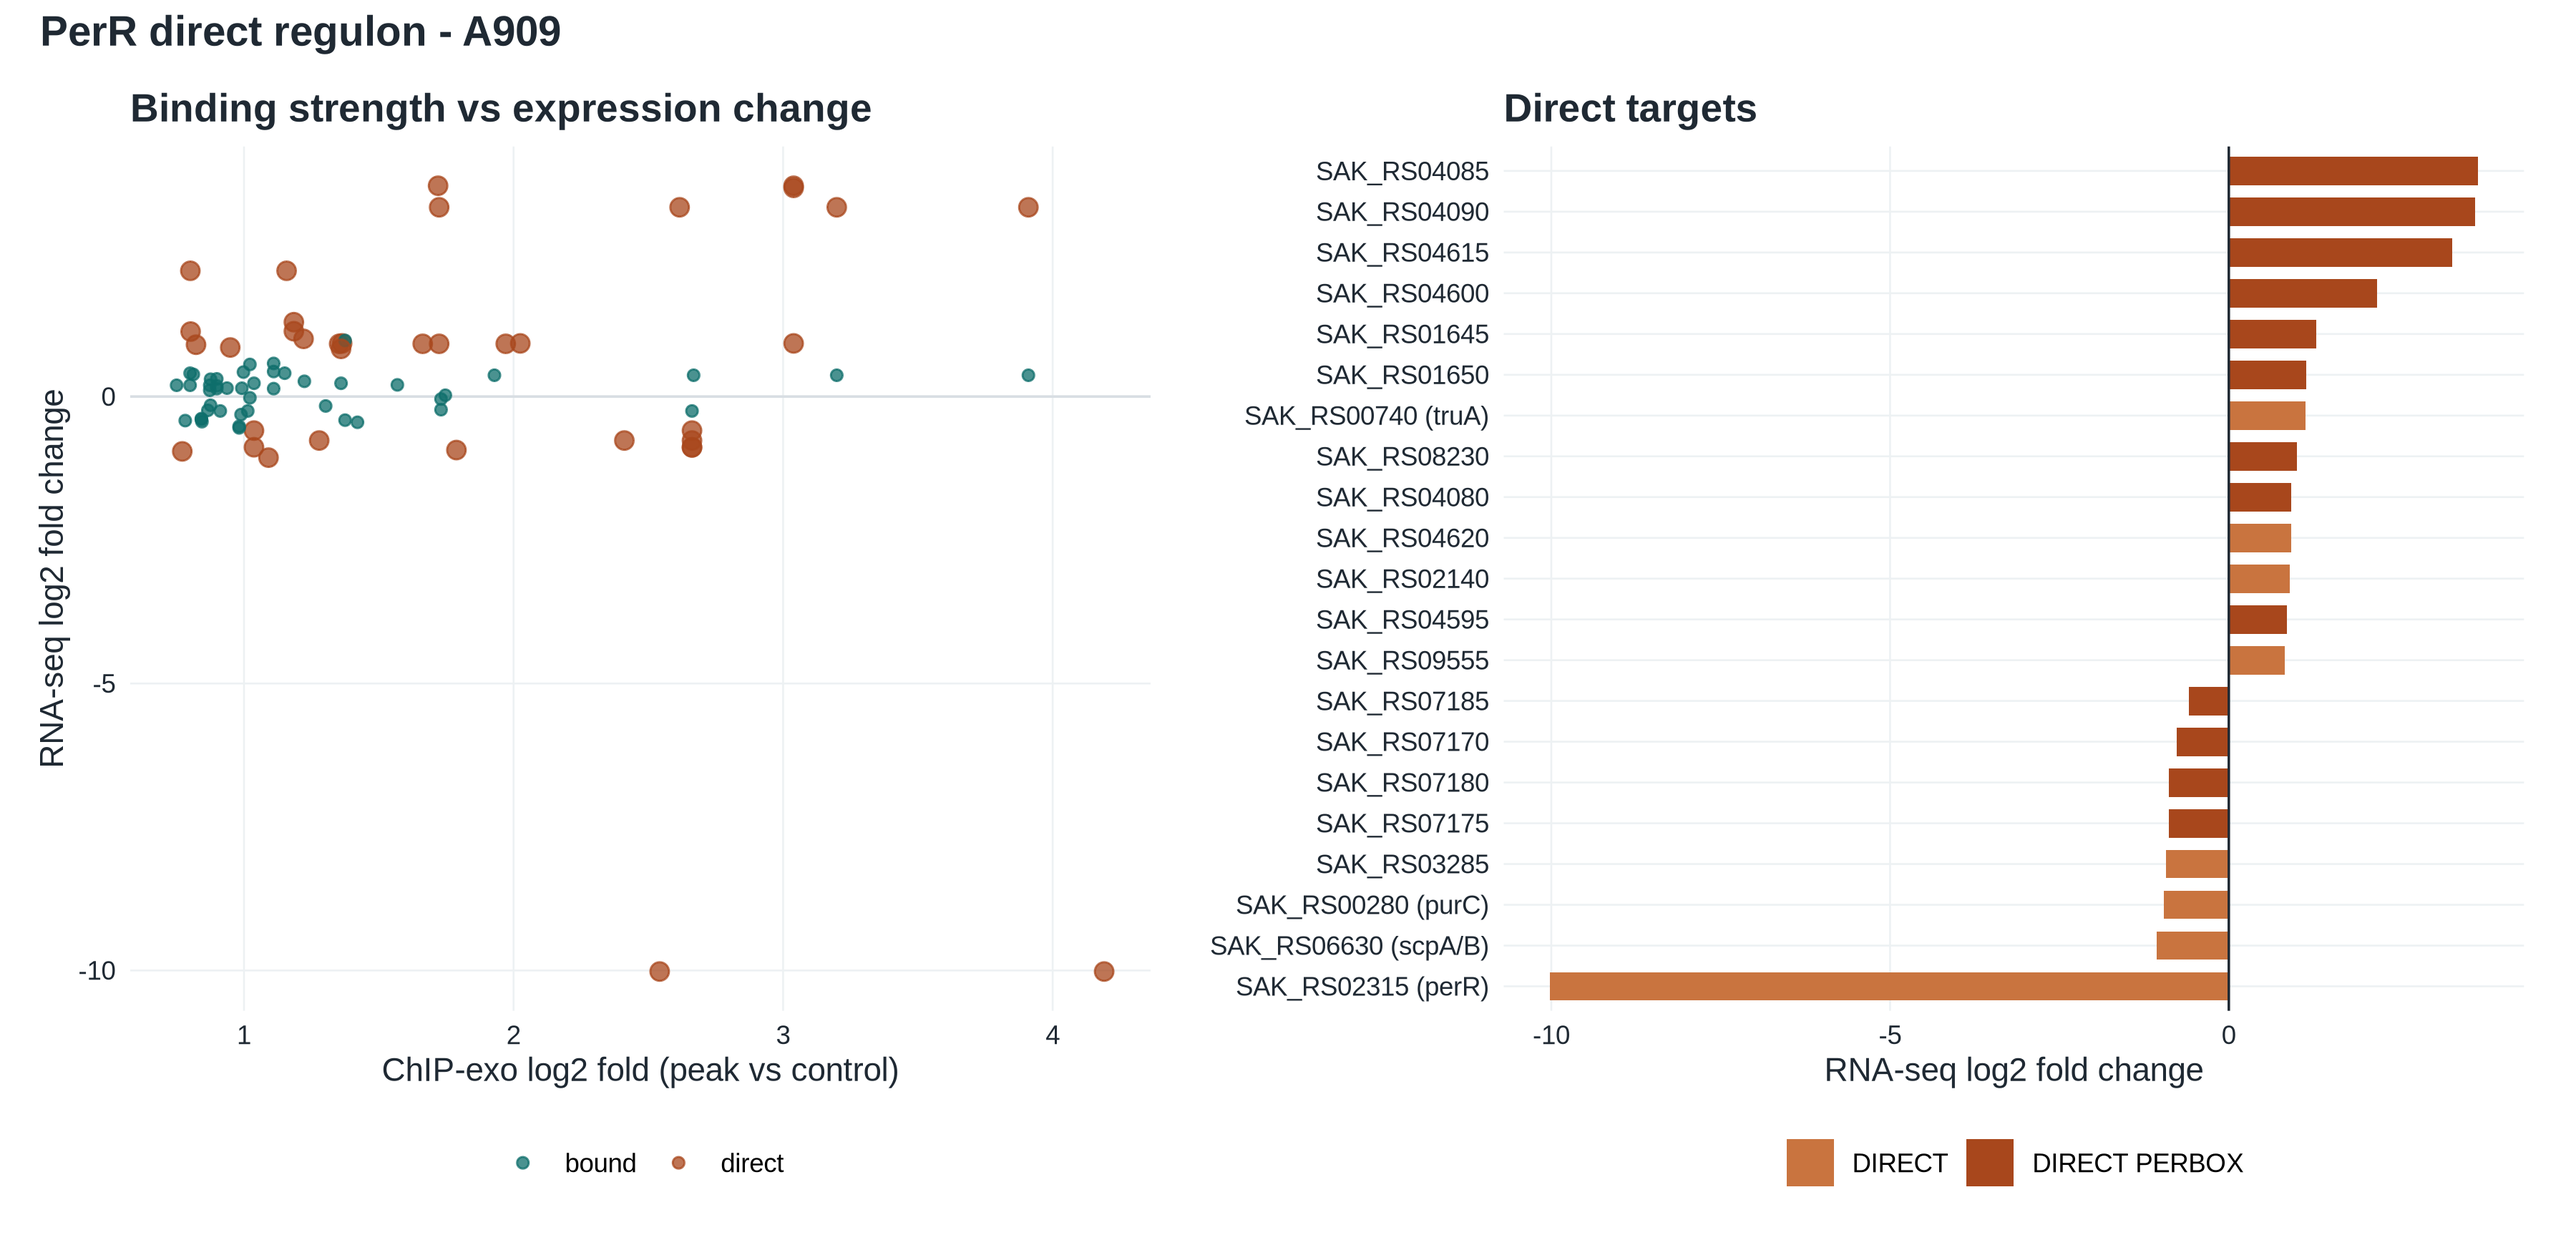
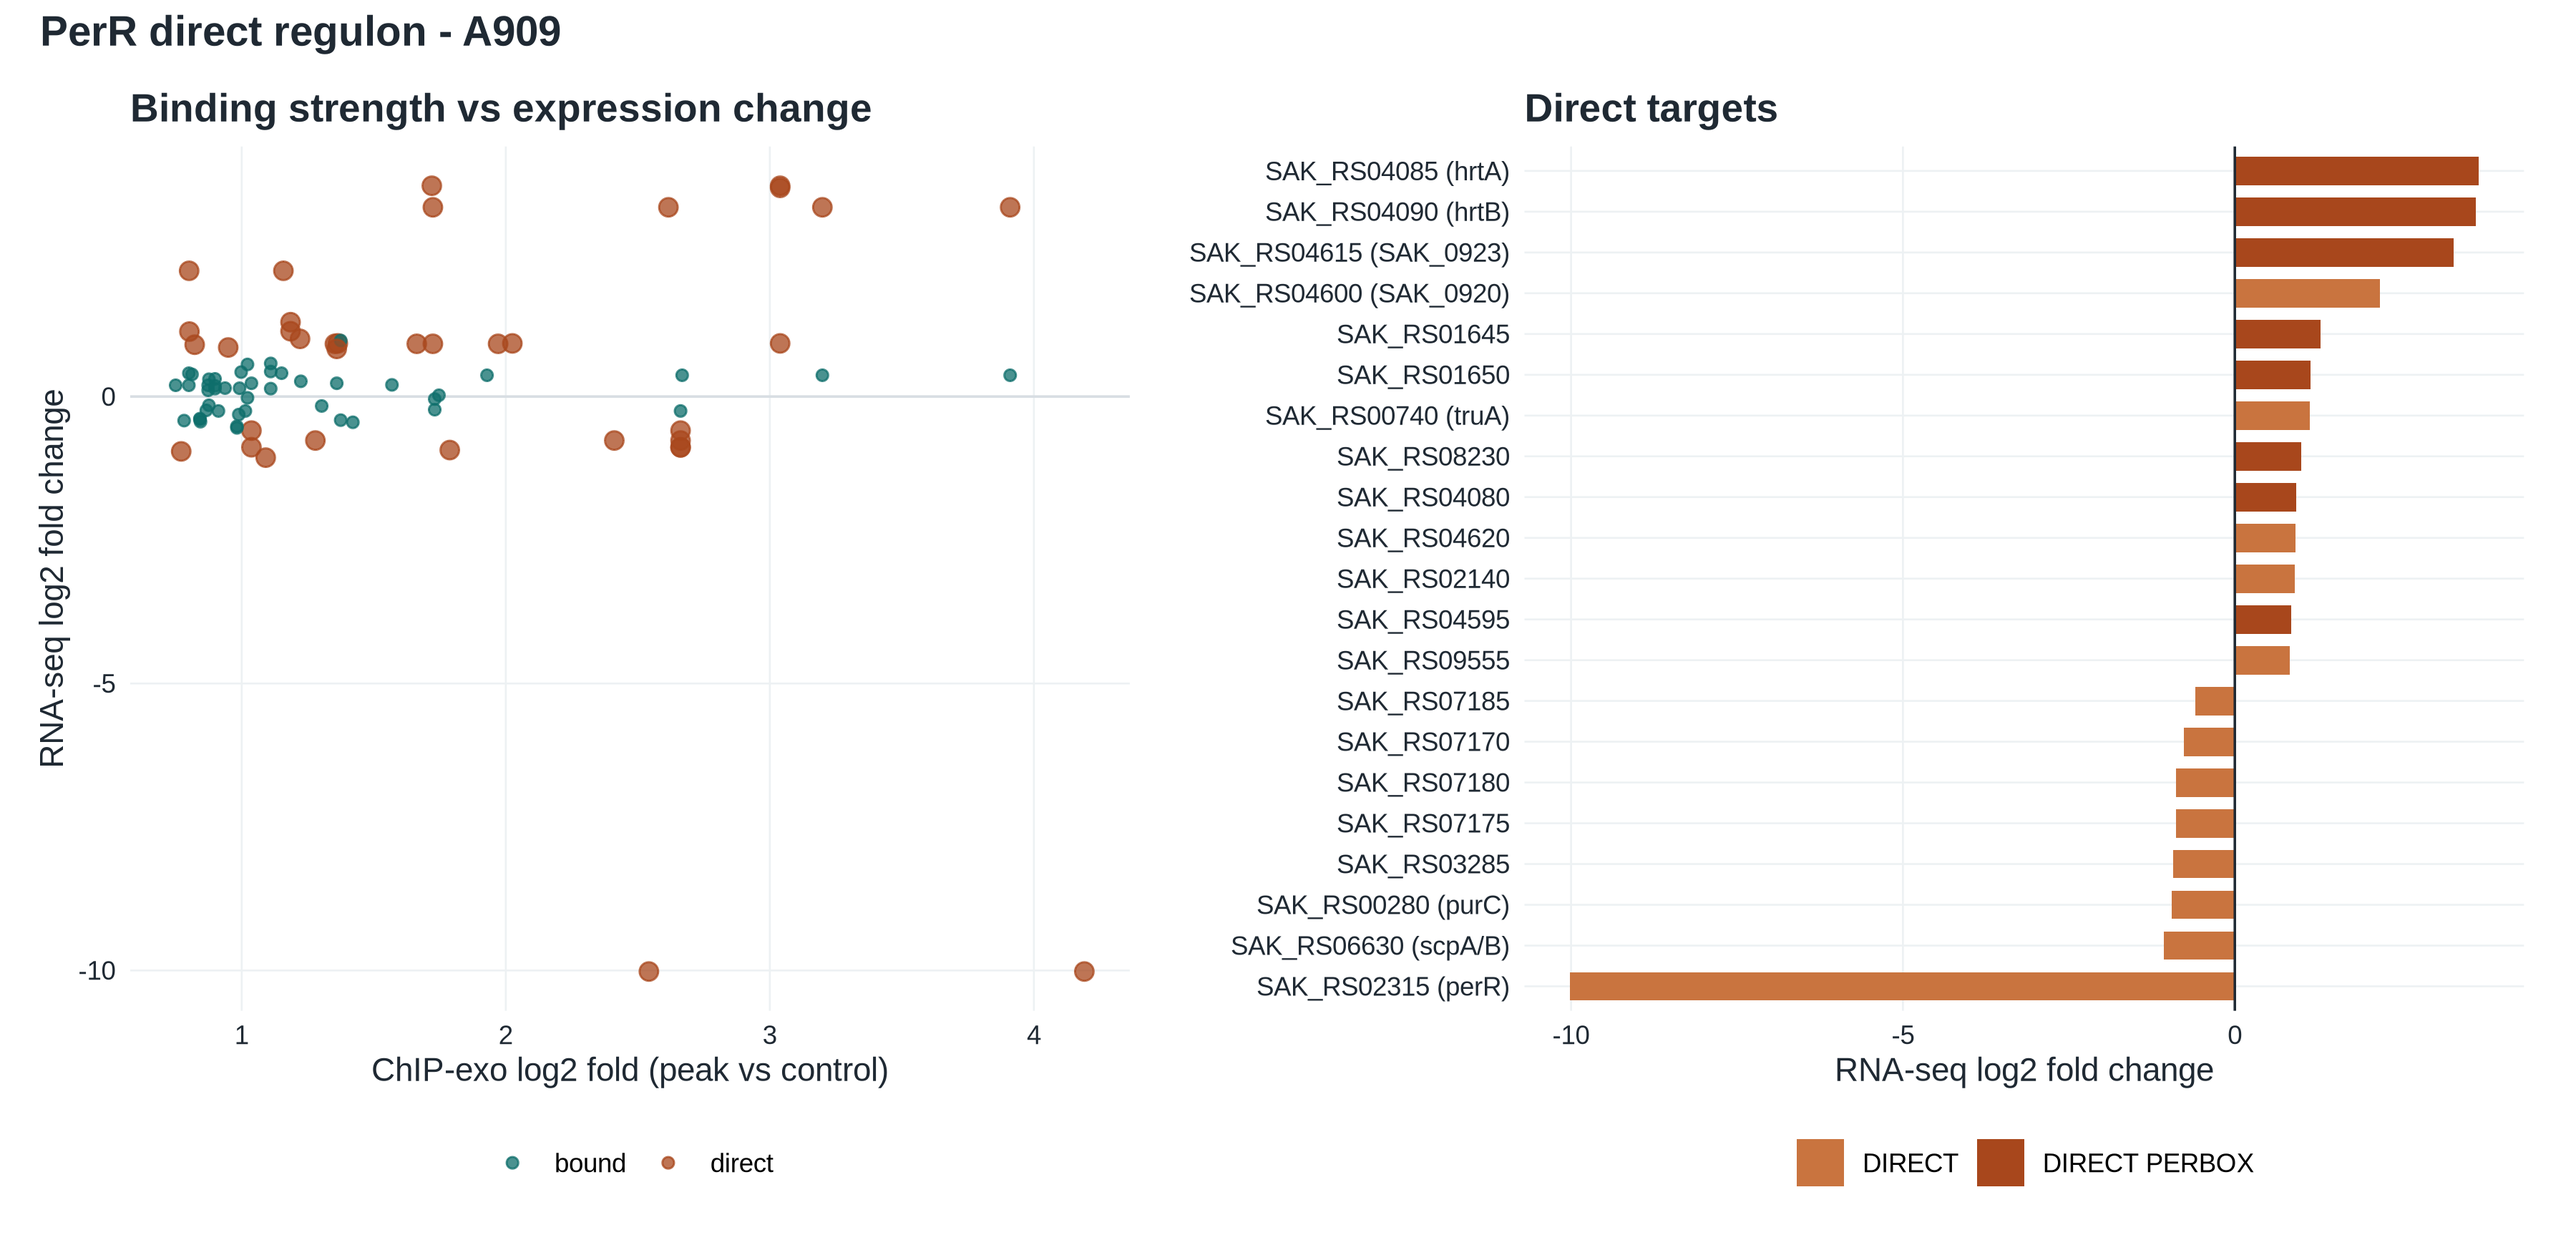
Regenerate figures after motif window and gene name changes

diff --git a/workflow/scripts/classify_peaks.py b/workflow/scripts/classify_peaks.py
@@ -54,6 +54,15 @@ fimo = snakemake.input.fimo              # noqa: F821
 fimo_gbs = snakemake.input.fimo_gbs      # noqa: F821
 out = snakemake.output.tsv               # noqa: F821
 logp = snakemake.log[0]                  # noqa: F821
+# A motif counts as being "in" a peak only if its centre lies within this
+# distance of the ChExMix event Point. The 500 bp discovery window is far too
+# generous for that judgement: ChExMix itself associates motif instances with
+# binding events within 30 bp (Yamada et al. 2019), MACE reports 90% of ChIP-exo
+# motifs within 20 bp of the peak centre (Wang et al. 2014), and the measured
+# median offset in this dataset is -2 bp. Hits beyond the cutoff are still
+# COUNTED and reported, so nothing is hidden; they simply do not make the peak
+# motif-positive.
+HALFWIN = int(snakemake.params.halfwindow)   # noqa: F821
 
 os.makedirs(os.path.dirname(out), exist_ok=True)
 os.makedirs(os.path.dirname(logp), exist_ok=True)
@@ -152,7 +161,7 @@ with open(out, "w") as ob, open(logp, "w") as lg:
     for w in warnings:
         lg.write(w + "\n")
     ob.write("\t".join(HDR) + "\n")
-    n_gas = n_gbs = n_both = 0
+    n_gas = n_gbs = n_both = n_win_only = 0
     offsets = []
 
     for name, (chrom, s, e) in sorted(win.items()):
@@ -164,24 +173,43 @@ with open(out, "w") as ob, open(logp, "w") as lg:
 
         g_hits = hits_in(gas_hits, chrom, s, e)
         b_hits = hits_in(gbs_hits, chrom, s, e)
-        g_can, b_can = len(g_hits) > 0, len(b_hits) > 0
+
+        # Distance-filtered: only hits within HALFWIN of the crosslink count.
+        b_near = [(q, c) for q, c in b_hits if abs(c - point) <= HALFWIN]
+        g_near = [(q, c) for q, c in g_hits if abs(c - point) <= HALFWIN]
+
+        g_can, b_can = len(g_near) > 0, len(b_near) > 0
         n_gas += int(g_can)
         n_gbs += int(b_can)
         n_both += int(g_can and b_can)
+        n_win_only += int(len(b_hits) > 0 and not b_can)
 
-        g_best = min(q for q, _ in g_hits) if g_hits else ""
-        if b_hits:
-            bq, bc = min(b_hits, key=lambda x: x[0])
+        g_best = min(q for q, _ in g_near) if g_near else ""
+        # When the peak IS motif-positive, the reported q-value and offset must
+        # describe the hit that made it so. Taking the best hit from the whole
+        # window would let a far, better-scoring hit supply the offset for a
+        # peak that qualified on a different, nearer one.
+        if b_near:
+            bq, bc = min(b_near, key=lambda x: x[0])
             b_best = bq
             b_off = int(round(bc - point))
+        elif b_hits:
+            # Not motif-positive, but record how far the nearest hit is so the
+            # column still supports the positional-enrichment diagnostic below.
+            bq, bc = min(b_hits, key=lambda x: abs(x[1] - point))
+            b_best = ""
+            b_off = int(round(bc - point))
+        else:
+            b_best, b_off = "", ""
+        if b_hits:
             offsets.append(b_off)
         else:
             b_best, b_off = "", ""
 
         ob.write("\t".join(str(x) for x in [
             name, chrom, s, e, subtype.get(name, "NA"),
-            g_can, len(g_hits), g_best,
-            b_can, len(b_hits), b_best, b_off]) + "\n")
+            g_can, len(g_near), g_best,
+            b_can, len(b_near), b_best, b_off]) + "\n")
 
     lg.write(f"peaks={len(win)}\n")
     lg.write(f"GAS-box hits total={len(gas_hits)}  peaks with a GAS box={n_gas}\n")
@@ -193,3 +221,6 @@ with open(out, "w") as ob, open(logp, "w") as lg:
         within50 = sum(1 for o in offsets if abs(o) <= 50)
         lg.write(f"GBS motif offset from crosslink: median={mid} bp, "
                  f"within +/-50 bp={within50}/{len(offsets)}\n")
+    lg.write(f"motif_in_peak_halfwindow={HALFWIN} bp\n")
+    lg.write(f"peaks with a GBS motif in the 500 bp window but NOT within "
+             f"+/-{HALFWIN} bp of the crosslink: {n_win_only}\n")

diff --git a/workflow/scripts/parse_deg_excel.py b/workflow/scripts/parse_deg_excel.py
@@ -41,6 +41,57 @@ def norm(df):
         elif k in ("q_value", "qvalue", "padj", "fdr"):   ren[c] = "padj"
     return df.rename(columns=ren)
 
+def read_gene_names(xlsx_path, sheet_name):
+    """Pull {gene_id: gene_name} from a DEG sheet.
+
+    These sheets contain TWO header rows: one for the downregulated block and a
+    second, further down, for the upregulated block, separated by blank rows.
+    Reading with a single header would treat the second header as data. Every
+    row whose first cell is literally 'gene_id' is therefore treated as a header
+    and skipped, and the rest are read positionally.
+
+    Returns an empty dict rather than raising if the sheet is missing: gene
+    names are cosmetic, and their absence must not stop the pipeline.
+    """
+    import pandas as pd
+
+    try:
+        raw = pd.read_excel(xlsx_path, sheet_name=sheet_name, header=None,
+                            dtype=str)
+    except Exception as exc:                                  # noqa: BLE001
+        return {}, f"could not read sheet '{sheet_name}': {exc}"
+
+    names, id_col, name_col = {}, None, None
+    for _, row in raw.iterrows():
+        cells = [("" if pd.isna(v) else str(v).strip()) for v in row.tolist()]
+        if not any(cells):
+            continue
+
+        # A header row re-establishes which columns to use. Locating them by
+        # NAME rather than by fixed position means an inserted column upstream
+        # cannot silently shift the mapping.
+        low = [c.lower() for c in cells]
+        if "gene_id" in low:
+            id_col = low.index("gene_id")
+            name_col = low.index("gene name") if "gene name" in low else None
+            continue
+
+        if id_col is None or name_col is None:
+            continue
+        if id_col >= len(cells) or name_col >= len(cells):
+            continue
+
+        gid, gname = cells[id_col], cells[name_col]
+        if not gid or gid.lower() == "gene_id":
+            continue
+        # The lab annotated only some genes; others carry a legacy locus tag in
+        # this column (e.g. SAK_0642). Both are more informative than nothing,
+        # so both are kept and the caller decides how to display them.
+        if gname:
+            names[gid] = gname
+
+    return names, f"{len(names)} gene names from '{sheet_name}'"
+
 with open(logp, "w") as lg:
     raw = norm(pd.read_excel(xlsx, sheet_name=raw_sheet))
     lg.write(f"strain={strain} raw_sheet='{raw_sheet}' rows={len(raw)}\n")
@@ -64,8 +115,15 @@ with open(logp, "w") as lg:
     lg.write(f"our_thresholds padj<{padj_thr} |log2FC|>={lfc_thr} -> "
              f"up={(raw.deg_status=='up').sum()} down={(raw.deg_status=='down').sum()}\n")
 
+    # Defined before the try so a failure to read the DEG sheet degrades to
+    # "no gene names" rather than raising. Names are cosmetic.
+    gene_names, name_msg = {}, "gene names: DEG sheet not read"
+
     # cross-check against the lab's own DEG sheet
     try:
+        gene_names, name_msg = read_gene_names(xlsx, deg_sheet)
+        lg.write(f"{name_msg}\n")
+
         degs = norm(pd.read_excel(xlsx, sheet_name=deg_sheet))
         lab_ids = set(degs["gene_id"].astype(str).str.strip())
         ours    = set(raw.loc[sig, "gene_id"])
@@ -78,5 +136,6 @@ with open(logp, "w") as lg:
         raw["in_lab_deg_list"] = pd.NA
 
     raw.insert(0, "strain", strain)
+    raw["gene_name"] = raw["gene_id"].map(gene_names).fillna("")
     raw.to_csv(out_tsv, sep="\t", index=False)
     lg.write(f"wrote {out_tsv}\n")

diff --git a/workflow/scripts/build_regulon_table.py b/workflow/scripts/build_regulon_table.py
@@ -104,11 +104,24 @@ ai = {c: i for i, c in enumerate(ahdr)}
 di = {c: i for i, c in enumerate(dhdr)}
 ginfo = parse_gff(gff)
 
+# Gene-name sources, in precedence order. GFF names are the official symbols;
+# the lab's DEG sheets annotate additional genes the GFF leaves unnamed, so they
+# fill the gaps. Display only -- nothing is classified or counted using them.
+gff_name = {lt: v.get("gene_name", "") for lt, v in ginfo.items()}
+rnaseq_name = {}
+
 rna = {}
 for r in drows:
     if len(r) <= max(di.values()):
         r = r + [""] * (max(di.values()) + 1 - len(r))
     rna[r[di["gene_id"]].strip()] = r
+
+for r in drows:
+    if "gene_name" in di and di["gene_name"] < len(r):
+        gid = r[di["gene_id"]].strip()
+        nm = r[di["gene_name"]].strip()
+        if nm:
+            rnaseq_name[gid] = nm
 
 # ---- which Per box drives DIRECT_PERBOX -----------------------------------
 GBS_COL, GAS_COL = "gbs_perbox_in_window", "perbox_in_window"
@@ -137,6 +150,11 @@ with open(out, "w") as ob:
     for r in arows:
         g = r[ai["gene_id"]]
         rr = rna.get(g)
+
+        # The assignment table already carries the GFF name. Fill it from the
+        # lab's DEG sheet only where the GFF left it blank.
+        if ai["gene_name"] < len(r) and not r[ai["gene_name"]]:
+            r[ai["gene_name"]] = rnaseq_name.get(g, "")
 
         def val(k):
             return rr[di[k]] if (rr and k in di and di[k] < len(rr)) else ""
@@ -172,7 +190,7 @@ with open(out, "w") as ob:
         row = [""] * len(ahdr)
         row[ai["strain"]] = strain
         row[ai["gene_id"]] = g
-        row[ai["gene_name"]] = gi.get("gene_name", "")
+        row[ai["gene_name"]] = gi.get("gene_name", "") or rnaseq_name.get(g, "")
         row[ai["product"]] = gi.get("product", "")
         row[ai["gene_strand"]] = gi.get("strand", "")
         row[ai["relationship"]] = "none"

diff --git a/results/13_motifless/MOTIFLESS_REPORT.md b/results/13_motifless/MOTIFLESS_REPORT.md
@@ -6,9 +6,9 @@ Peaks carrying no GBS PerR motif (FIMO p<1e-4) were subjected to de novo discove
 
 ## A909
 
-55 motif-less of 99 peaks (56%)
+68 motif-less of 99 peaks (69%)
 
-### A909 — motifless (55 peaks)
+### A909 — motifless (68 peaks)
 
 *No motifs reported.*
 
@@ -16,73 +16,71 @@ Peaks carrying no GBS PerR motif (FIMO p<1e-4) were subjected to de novo discove
 
 *No known TF motif enriched in these sequences (SEA).*
 
-### A909 — motifpos (44 peaks)
+### A909 — motifpos (31 peaks)
 
 | consensus | width | sites | E-value | most similar |
 |---|---|---|---|---|
-| `STTATTTAKAA` | 11 | 44 | 9.5e-028 | 1 (CTTATTTAKAA-MEME-1) |
-| `ATTMTAAATAASN` | 13 | 39 | 6.0e-016 | 1 (CTTATTTAKAA-MEME-1) |
-| `TTWYTGATAMW` | 11 | 17 | 1.3e-005 | 1 (CTTATTTAKAA-MEME-1) |
-| `AGYAKACTG` | 9 | 11 | 2.4e-004 | 1 (CTTATTTAKAA-MEME-1) |
-| `AAATYCRR` | 8 | 9 | 1.2e-003 | 1 (CTTATTTAKAA-MEME-1) |
+| `STTATTTAKAA` | 11 | 31 | 5.1e-030 | 1 (CTTATTTAKAA-MEME-1) |
+| `TTATTTAGAAW` | 11 | 28 | 1.3e-014 | 1 (CTTATTTAKAA-MEME-1) |
+| `AAWAAAG` | 7 | 21 | 1.0e-005 | 1 (CTTATTTAKAA-MEME-1) |
+| `TTTCAAAATC` | 10 | 16 | 3.5e-004 | 1 (CTTATTTAKAA-MEME-1) |
+| `CWCCTW` | 6 | 10 | 4.1e-004 | 1 (CTTATTTAKAA-MEME-1) |
 
 **Database matches (558 curated prokaryotic motifs):**
 
 | query | target | q-value |
 |---|---|---|
-| 3 | EXPREG_00000290 | 0.0441 |
-| 3 | MX000256 | 0.224 |
-| 3 | EXPREG_00000130 | 0.246 |
-| 3 | MX000053 | 0.304 |
-| 3 | EXPREG_00000ec0 | 0.304 |
+| 2 | MX000211 | 0.172 |
+| 1 | MX000211 | 0.31 |
 
 *No known TF motif enriched in these sequences (SEA).*
 
 ## CJB111
 
-8 motif-less of 25 peaks (32%)
+12 motif-less of 25 peaks (48%)
 
-> **UNDERPOWERED.** 8 sequences is too few for reliable de novo discovery. MEME will return something; treat it as descriptive only.
+> **UNDERPOWERED.** 12 sequences is too few for reliable de novo discovery. MEME will return something; treat it as descriptive only.
 
 
-### CJB111 — motifless (8 peaks)
+### CJB111 — motifless (12 peaks)
 
 | consensus | width | sites | E-value | most similar |
 |---|---|---|---|---|
-| `ACYCCTTTA` | 9 | 7 | 7.0e-004 | 1 (CTTATTTAKAA-MEME-1) |
-| `AGCACGWAAWKNA` | 13 | 7 | 7.0e-004 | 1 (CTTATTTAKAA-MEME-1) |
-| `AGCTTATTTTT` | 11 | 7 | 7.0e-004 | 1 (CTTATTTAKAA-MEME-1) |
-| `ACTSTC` | 6 | 6 | 3.5e-003 | 1 (CTTATTTAKAA-MEME-1) |
-| `AAACDTTAATAT` | 12 | 4 | 3.8e-002 | 1 (CTTATTTAKAA-MEME-1) |
+| `AAADAARCT` | 9 | 11 | 4.8e-006 | 1 (CTTATTTAKAA-MEME-1) |
+| `ACGAHTTTGA` | 10 | 9 | 1.7e-004 | 1 (CTTATTTAKAA-MEME-1) |
+| `AGHAACWSTMAY` | 12 | 9 | 1.7e-004 | 1 (CTTATTTAKAA-MEME-1) |
+| `AAAATGCA` | 8 | 6 | 6.9e-003 | 1 (CTTATTTAKAA-MEME-1) |
+| `AAAGGAGT` | 8 | 6 | 6.9e-003 | 1 (CTTATTTAKAA-MEME-1) |
 
 **Database matches (558 curated prokaryotic motifs):**
 
 | query | target | q-value |
 |---|---|---|
-| 5 | LMO1727_Enterococcaceae_Listeriaceae | 0.187 |
-| 5 | ExuR_Bacilli_Clostridia | 0.187 |
+| 4 | MX000043 | 0.246 |
+| 4 | MX000224 | 0.355 |
+| 4 | MX000116 | 0.355 |
+| 4 | MX000255 | 0.411 |
 
 *No known TF motif enriched in these sequences (SEA).*
 
-### CJB111 — motifpos (17 peaks)
+### CJB111 — motifpos (13 peaks)
 
 | consensus | width | sites | E-value | most similar |
 |---|---|---|---|---|
-| `ATTCTAAATAAS` | 12 | 16 | 7.7e-009 | 1 (CTTATTTAKAA-MEME-1) |
-| `TTCTAAATAAS` | 11 | 16 | 8.4e-009 | 1 (CTTATTTAKAA-MEME-1) |
-| `AGAATGGT` | 8 | 11 | 3.9e-004 | 1 (CTTATTTAKAA-MEME-1) |
-| `CAAAAA` | 6 | 10 | 1.2e-003 | 1 (CTTATTTAKAA-MEME-1) |
-| `AGDGCTT` | 7 | 8 | 1.3e-003 | 1 (CTTATTTAKAA-MEME-1) |
+| `STTATTTAKAAT` | 12 | 13 | 2.0e-009 | 1 (CTTATTTAKAA-MEME-1) |
+| `ATTMTAAATAASDAAH` | 16 | 13 | 1.3e-006 | 1 (CTTATTTAKAA-MEME-1) |
+| `GCTTCAAT` | 8 | 9 | 2.3e-004 | 1 (CTTATTTAKAA-MEME-1) |
+| `CAAAAAAAWB` | 10 | 8 | 8.2e-004 | 1 (CTTATTTAKAA-MEME-1) |
+| `ACTTTC` | 6 | 7 | 2.6e-003 | 1 (CTTATTTAKAA-MEME-1) |
 
 **Database matches (558 curated prokaryotic motifs):**
 
 | query | target | q-value |
 |---|---|---|
-| 2 | MX000211 | 0.274 |
-| 4 | MX000341 | 0.38 |
-| 4 | MX000348 | 0.38 |
-| 6 | MX000312 | 0.41 |
-| 6 | EXPREG_00000bc0 | 0.41 |
+| 5 | MX000341 | 0.101 |
+| 5 | MX000348 | 0.101 |
+| 4 | MX000385 | 0.341 |
+| 4 | EXPREG_00000840 | 0.341 |
 
 *No known TF motif enriched in these sequences (SEA).*
 

diff --git a/results/10_igv/README.md b/results/10_igv/README.md
@@ -1,6 +1,6 @@
 # IGV assets — PerR ChIP-exo
 
-*Auto-generated by `workflow/rules/igv.smk` on 2026-08-09. Do not edit — regenerated every run.*
+*Auto-generated by `workflow/rules/igv.smk` on 2026-08-16. Do not edit — regenerated every run.*
 
 ## Which tracks to use
 
